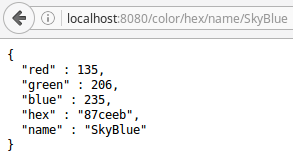
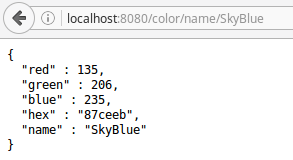
Simplify the API

Changed region(s): [[0.6451, 0.0625, 0.9829, 0.1562]]

diff --git a/src/main/java/de/nm/api/ColorController.java b/src/main/java/de/nm/api/ColorController.java
@@ -12,12 +12,12 @@ import de.nm.utils.ColorUtils;
 @RequestMapping("/color")
 public class ColorController {
 
-    @RequestMapping(value = "/rgb/hex/{hex}", method = RequestMethod.GET)
+    @RequestMapping(value = "/hex/{hex}", method = RequestMethod.GET)
     public Color convert(@PathVariable(value="hex") String hex) {
     	return new Color(hex);
     }
 
-    @RequestMapping(value = "/hex/rgb/{r}/{g}/{b}", method = RequestMethod.GET)
+    @RequestMapping(value = "/rgb/{r}/{g}/{b}", method = RequestMethod.GET)
     public Color convert(
     		@PathVariable(value="r") int r,
     		@PathVariable(value="g") int g,
@@ -25,7 +25,7 @@ public class ColorController {
     	return new Color(r, g, b);
     }
     
-    @RequestMapping(value = "/hex/name/{name}", method = RequestMethod.GET)
+    @RequestMapping(value = "/name/{name}", method = RequestMethod.GET)
     public Color convertFromName(@PathVariable(value="name") String name) {
     	return new Color(new ColorUtils().getColorHexByName(name));
     }
